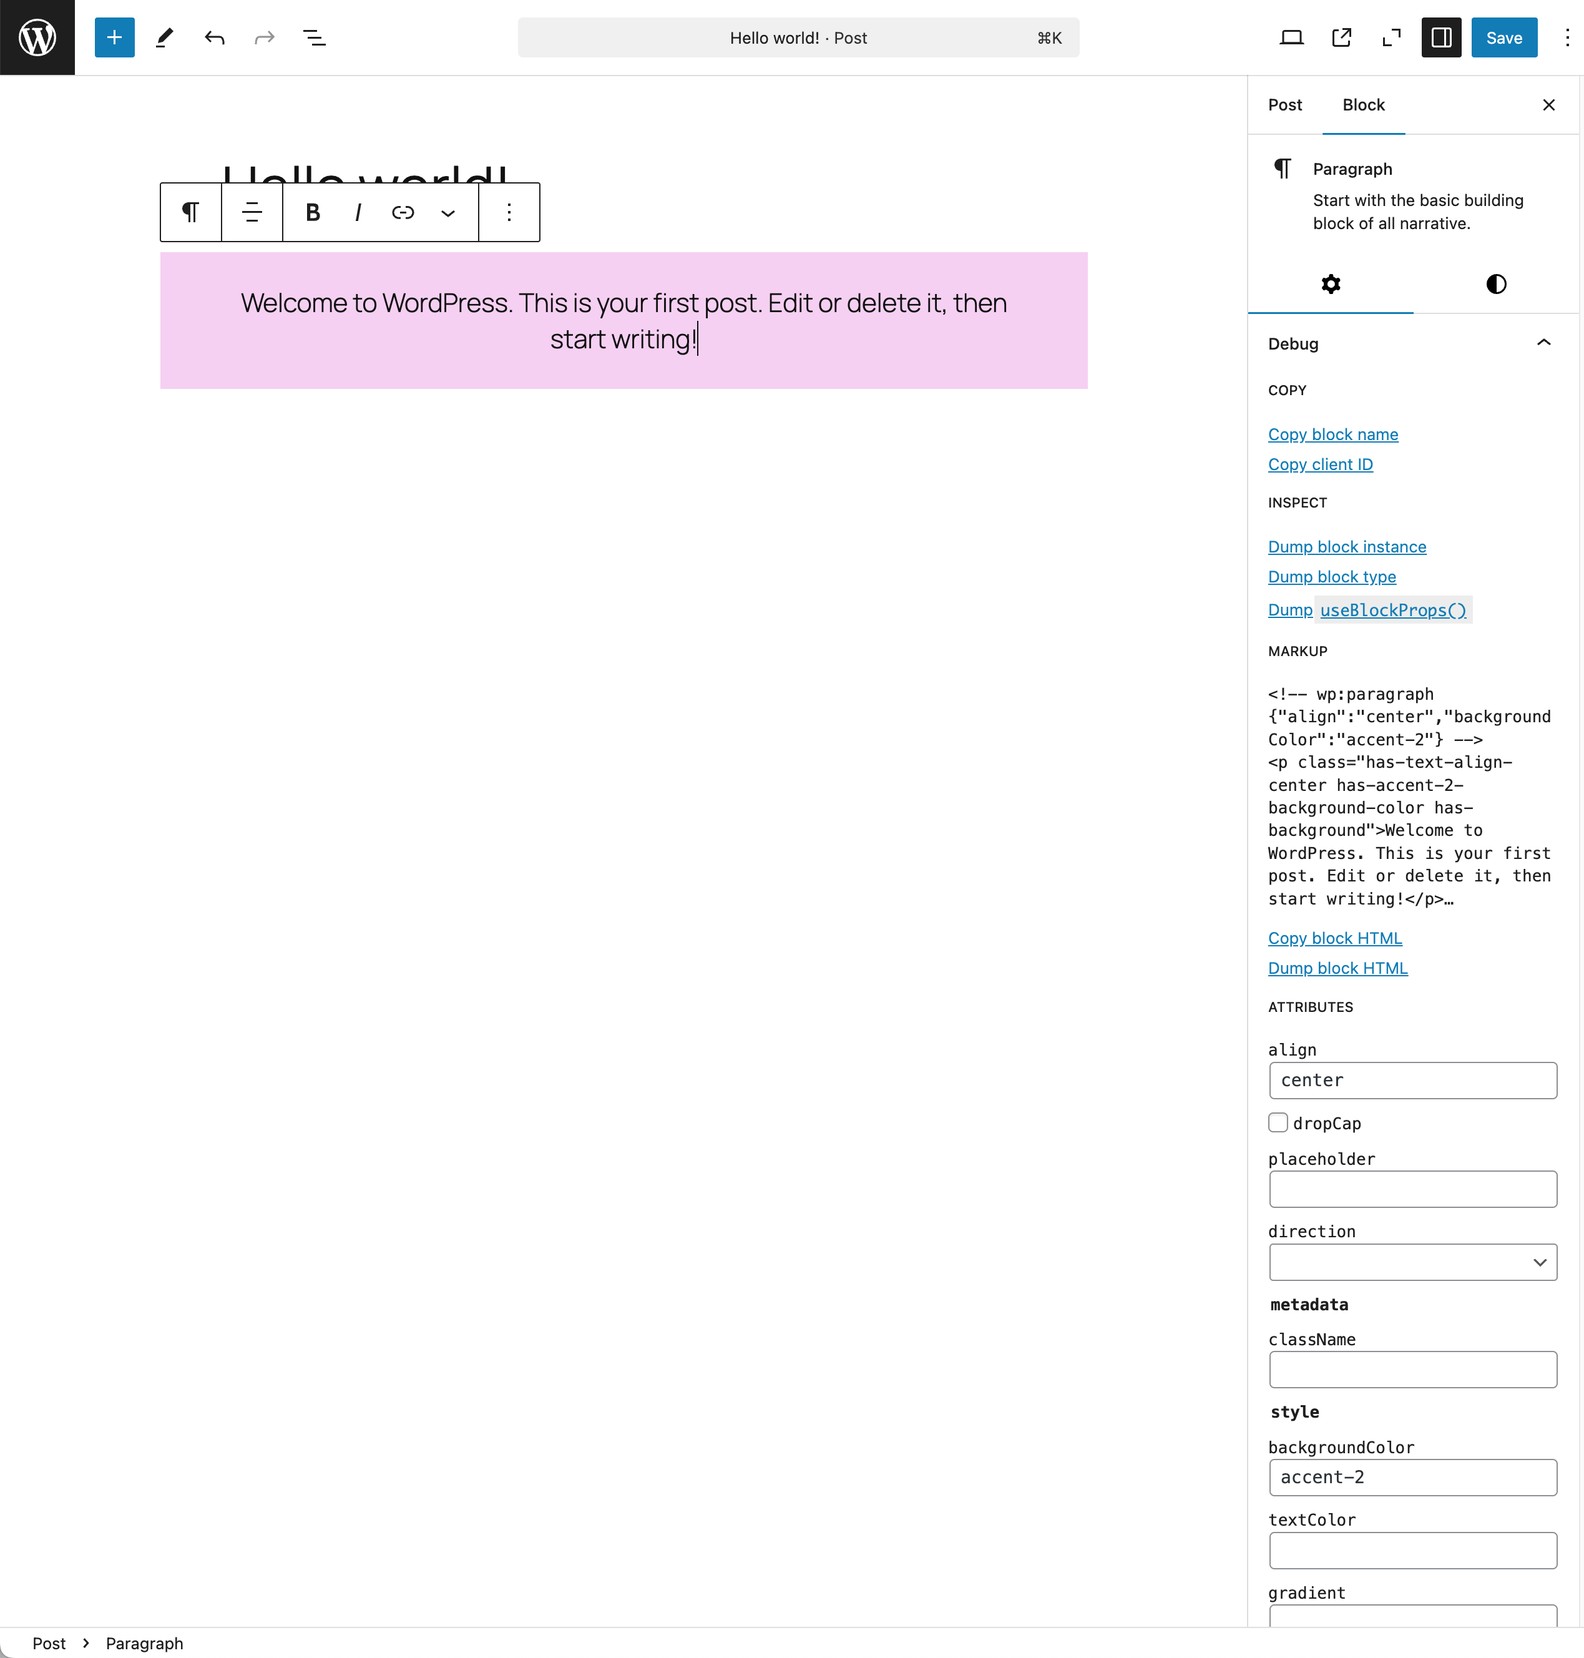
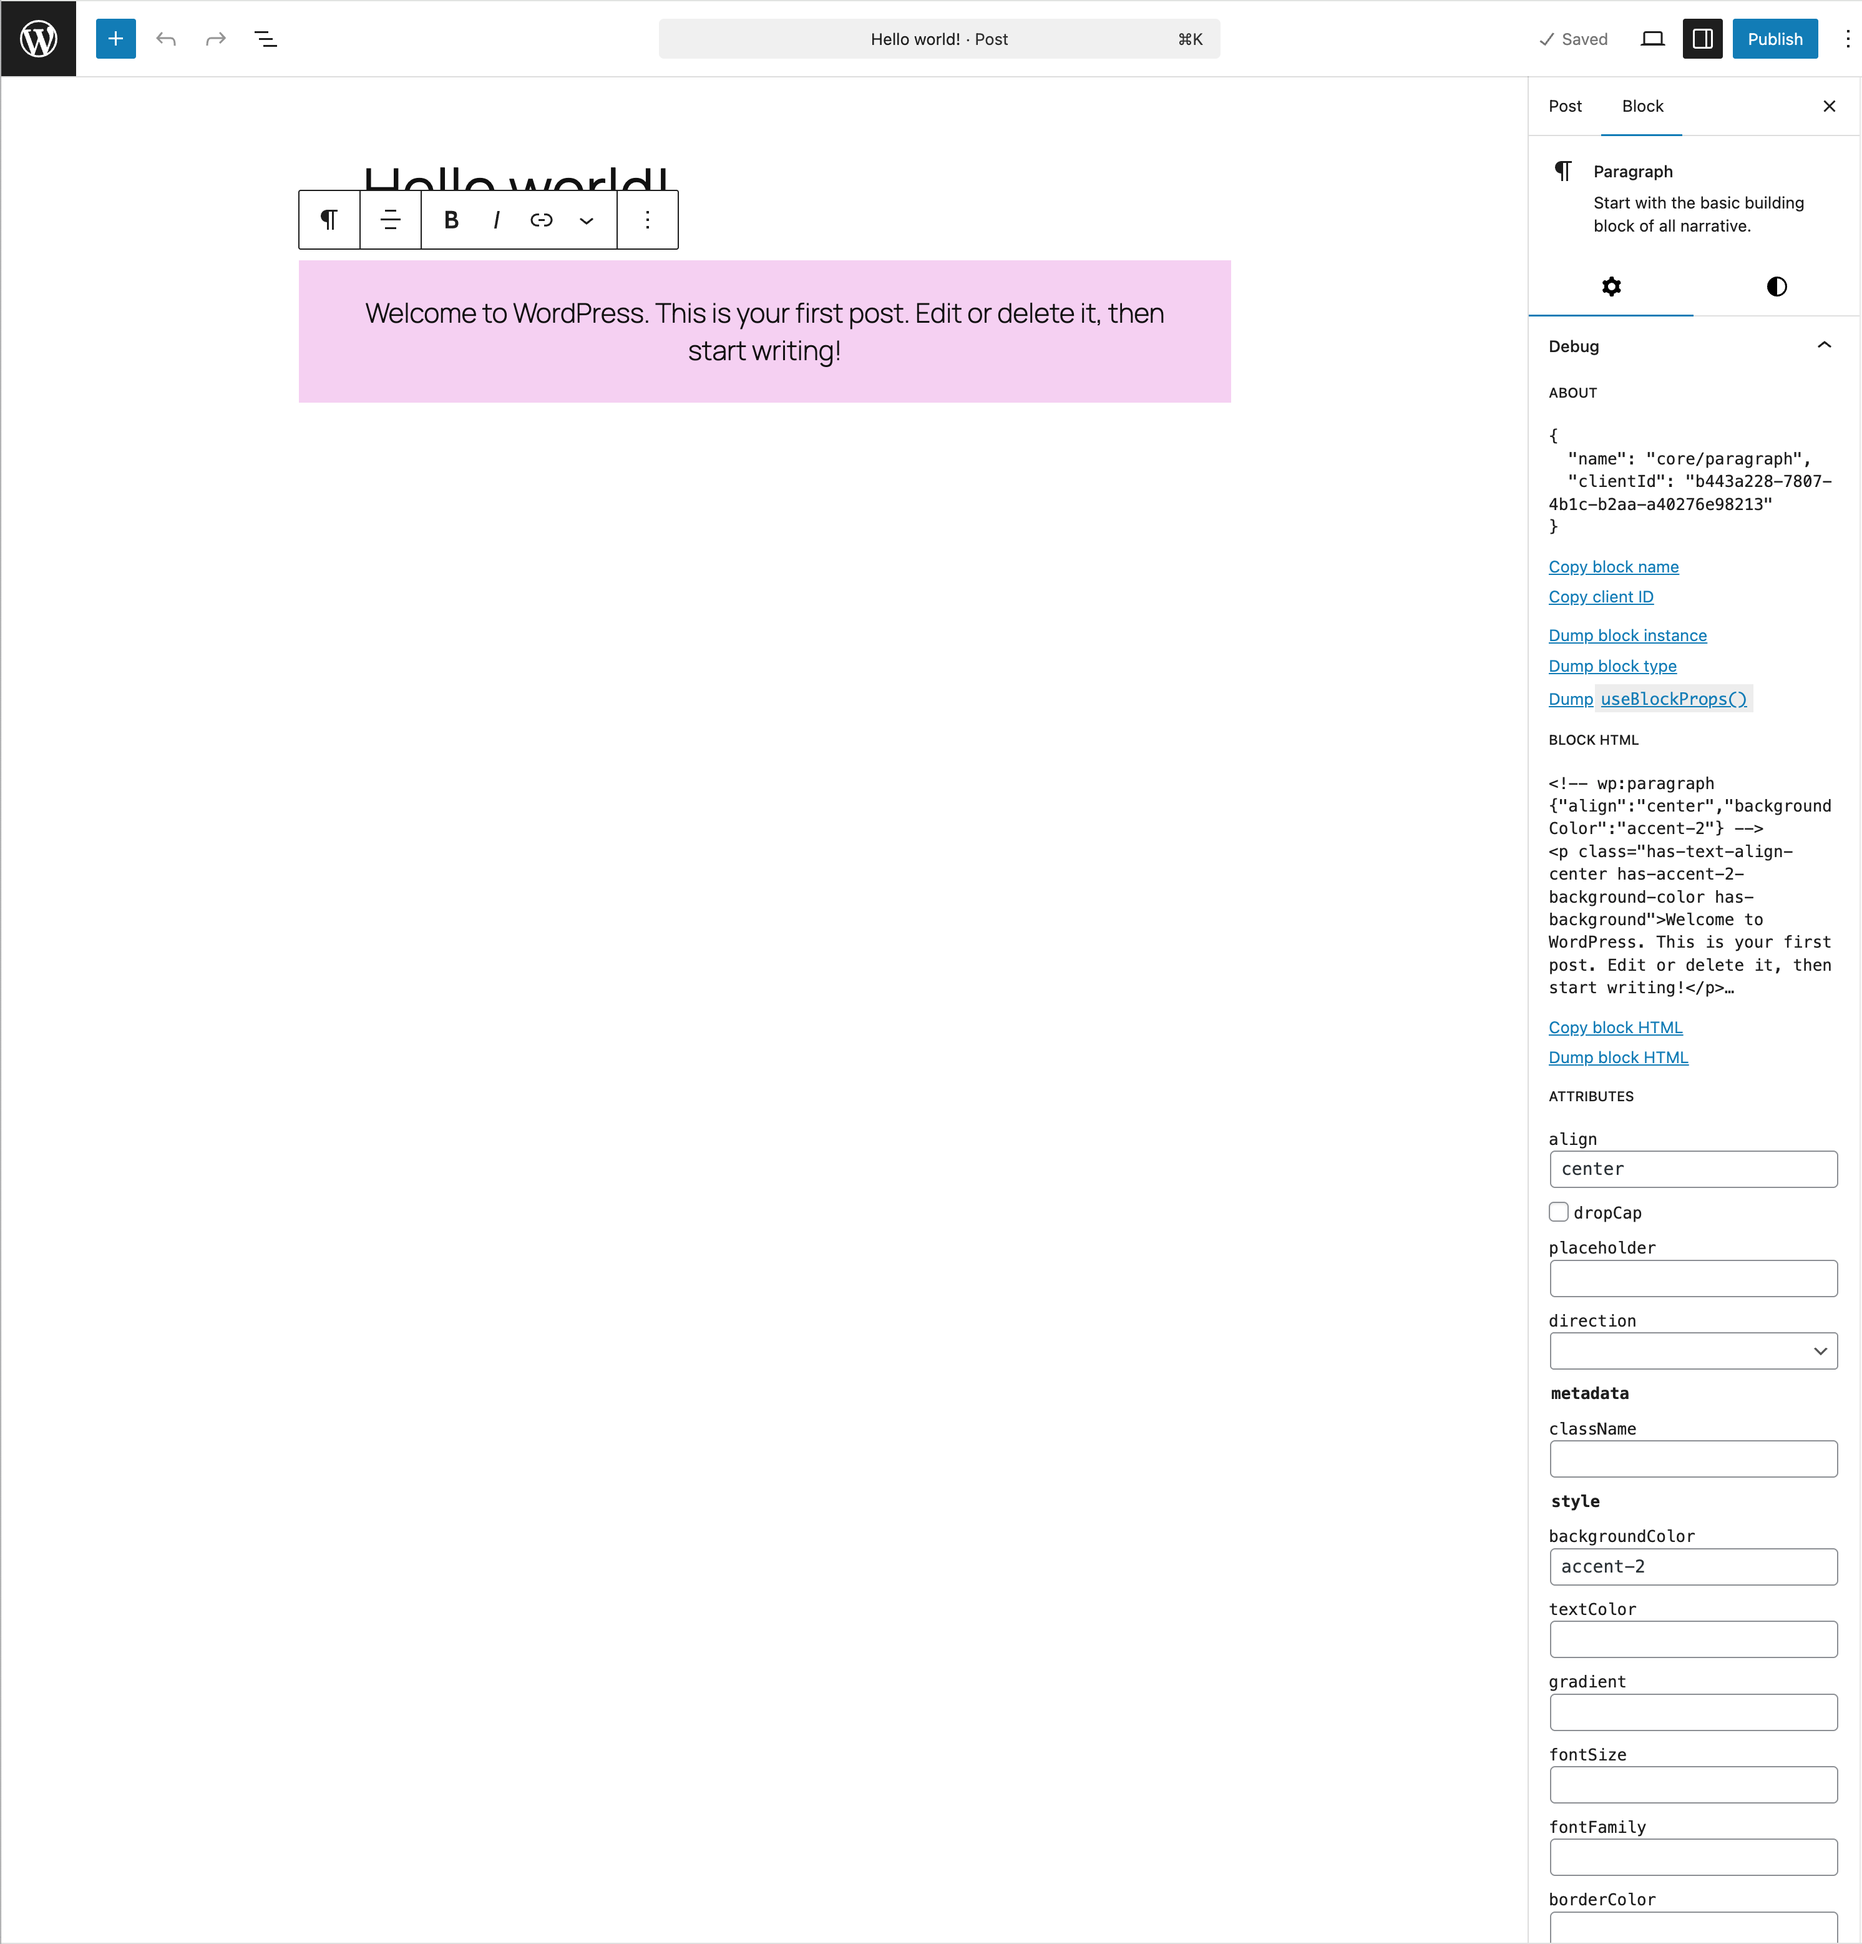
Show the block name and client ID

diff --git a/entries/panel/panel.tsx b/entries/panel/panel.tsx
@@ -89,6 +89,14 @@ function Panel({
           onToggle={() => toggleEditorPanelOpened(PANEL_NAME)}
         >
           <section>
+            <h3>{__('Overview', 'wp-block-debug')}</h3>
+
+            <pre className="wp-block-debug__markup">
+              {JSON.stringify({ name, clientId }, null, 2)}
+            </pre>
+          </section>
+
+          <section>
             <h3 className="screen-reader-text">{__('Copy', 'wp-block-debug')}</h3>
 
             <ul>

diff --git a/CHANGELOG.md b/CHANGELOG.md
@@ -6,6 +6,12 @@ This library adheres to [Semantic Versioning](https://semver.org/) and [Keep a C
 
 Nothing yet.
 
+## 0.4.0
+
+### Added
+
+- Show the block name and client ID in addition to the "Copy" buttons.
+
 ## 0.3.0
 
 ### Changed
